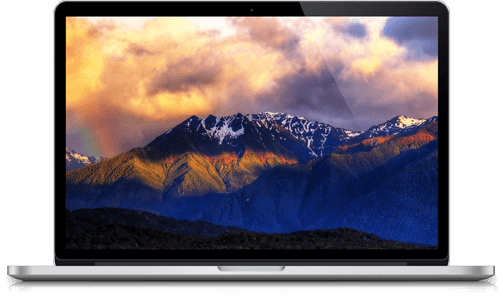
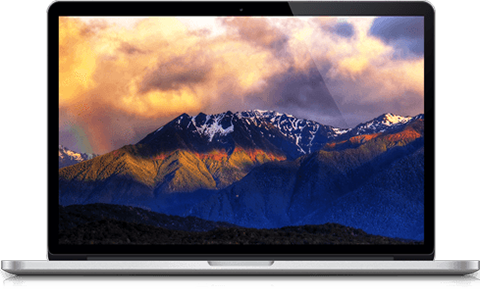
add gallery section

diff --git a/css/main.css b/css/main.css
@@ -331,7 +331,7 @@ nav li:last-child a{
     width:24px;
     height:24px;
     margin-right: 10px;
-    background-position: -52px 0;
+    background-position: -15px -117px;
 
 }
 .download .tw{
@@ -339,7 +339,7 @@ nav li:last-child a{
     float: left;
     width:24px;
     height:24px;
-    background-position: -124px 0;
+    background-position: -15px -279px;
     margin-right: 10px;
 }
 .download span{
@@ -355,20 +355,19 @@ nav li:last-child a{
     background:#f39c12;
 }
 #sign-up .layout-positioner{
-    margin: 0 130px;
+    margin: 0 130px 0 120px;
     padding: 70px 0;
 }
 #sign-up .icon-description{
-    width:45%;
+    width:50%;
     float:left;
 }
+
 #sign-up .tool{
     float: left;
     width: 90px;
     height: 90px;
     background-position: -712px -4px;
-    border:1px solid green;
-
 }
 #sign-up .cloud{
     float: left;
@@ -384,40 +383,66 @@ nav li:last-child a{
 }
 #sign-up .description{
     float: left;
-    width: 60%;
+    width: 65%;
     margin-left: 30px;
-    border:1px solid red;
-
+}
+#sign-up .description p{
+    color:#fff;
+    font-family: pt_sansregular;
+    font-size:14px;
+    line-height: 21px;
+}
+#sign-up .description span{
+    font-family: chunkfive;
 }
 #sign-up .laptop{
-    width:55%;
+    width:50%;
     float:right;
-
 }
 .laptop-bg{
     background: url('../images/laptop_bg.png') no-repeat;
-    width: 503px;
+    width: 480px;
     height:304px;
+    margin-bottom: 35px;
 }
 #sign-up .wrapper{
-    margin-bottom: 50px;
+    padding-bottom: 50px;
 }
 #sign-up .email{
 
-   //
 }
 input[id='email-field']{
    float:left;
-position:relative;
+    position:relative;
     display:block;
-    padding-left:30px;
-    background:#fff url('../images/sprite-social.png') no-repeat -24px 0;
+    padding-left:50px;
+    background:#fff url('../images/sprite-social.png') no-repeat -5px -60px ;
    line-height:33px;
+    height:33px;
     border:1px solid #d98705;
-    width:300px;
+    width:250px;
+    margin-right: 20px;
 }
 input[type='submit']{
-    float:left;
+    float:right;
+    height:36px;
+    width:130px;
+    background: #e67e22;
+    border:0;
+    border-radius: 4px;
+    color:#fff;
+    font-size:16px;
+    font-family: chunkfive;
+}
+
+
+/*footer*/
+footer .layout-positioner{
+
+}
+footer .layout-column{
+    width:50%
+   color:red;
 }
 /*
 .sprite {
@@ -429,50 +454,52 @@ input[type='submit']{
 .sprite-behance-icon {
     width: 24px;
     height: 24px;
-    background-position: 0 0;
+    background-position: -15px -15px;
 }
 
 .sprite-email-small {
     width: 28px;
     height: 18px;
-    background-position: -24px 0;
+    background-position: -15px -69px;
 }
 
 .sprite-fb_icon1 {
     width: 24px;
     height: 24px;
-    background-position: -52px 0;
+    background-position: -15px -117px;
 }
 
 .sprite-fb_icon2 {
     width: 24px;
     height: 24px;
-    background-position: -76px 0;
+    background-position: -15px -171px;
 }
 
 .sprite-pinterest_icon {
     width: 24px;
     height: 24px;
-    background-position: -100px 0;
+    background-position: -15px -225px;
 }
 
 .sprite-tw_icon1 {
     width: 24px;
     height: 24px;
-    background-position: -124px 0;
+    background-position: -15px -279px;
 }
 
 .sprite-tw_icon2 {
     width: 24px;
     height: 24px;
-    background-position: -148px 0;
+    background-position: -15px -333px;
 }
 
 .sprite-vimeo_icon {
     width: 24px;
     height: 24px;
-    background-position: -172px 0;
+    background-position: -15px -387px;
 }
+
+
 
 */
 

diff --git a/index.html b/index.html
@@ -30,7 +30,6 @@
        <div class="layout-positioner clearfix">
         <div class="layout-column">
         <div class="monitor">
-
             <div class="signature clearfix">
                 <h1>Try a Demo.</h1>
                 <a href="#">View Demo</a>
@@ -38,7 +37,7 @@
             </div>
         </div>
         </div>
-           <div class="layout-column">
+        <div class="layout-column">
         <div class="product-description">
 
                 <h1>Our Product</h1>
@@ -187,7 +186,15 @@
     </section>
 </main>
 <footer>
-    footer
+    <div class="layout-positioner clearfix">
+        <div class="layout-column">
+            <h1>Want More?</h1>
+            <p>Lorem ipsum dolor sit amet, consectetur adipiscing elit. Suspendisse risus augue, hendrerit eget accumsan et, interdum in lacus. Nulla et convallis quam. In at nisi commodo, consequat erat sed, convallis arcu. Fusce sagittis ipsum facilisis orci consequat, nec interdum lorem ullamcorper.</p>
+        </div>
+    </div>
+    <div class="layout-column">
+        asdf
+    </div>
 </footer>
 </body>
 </html>
